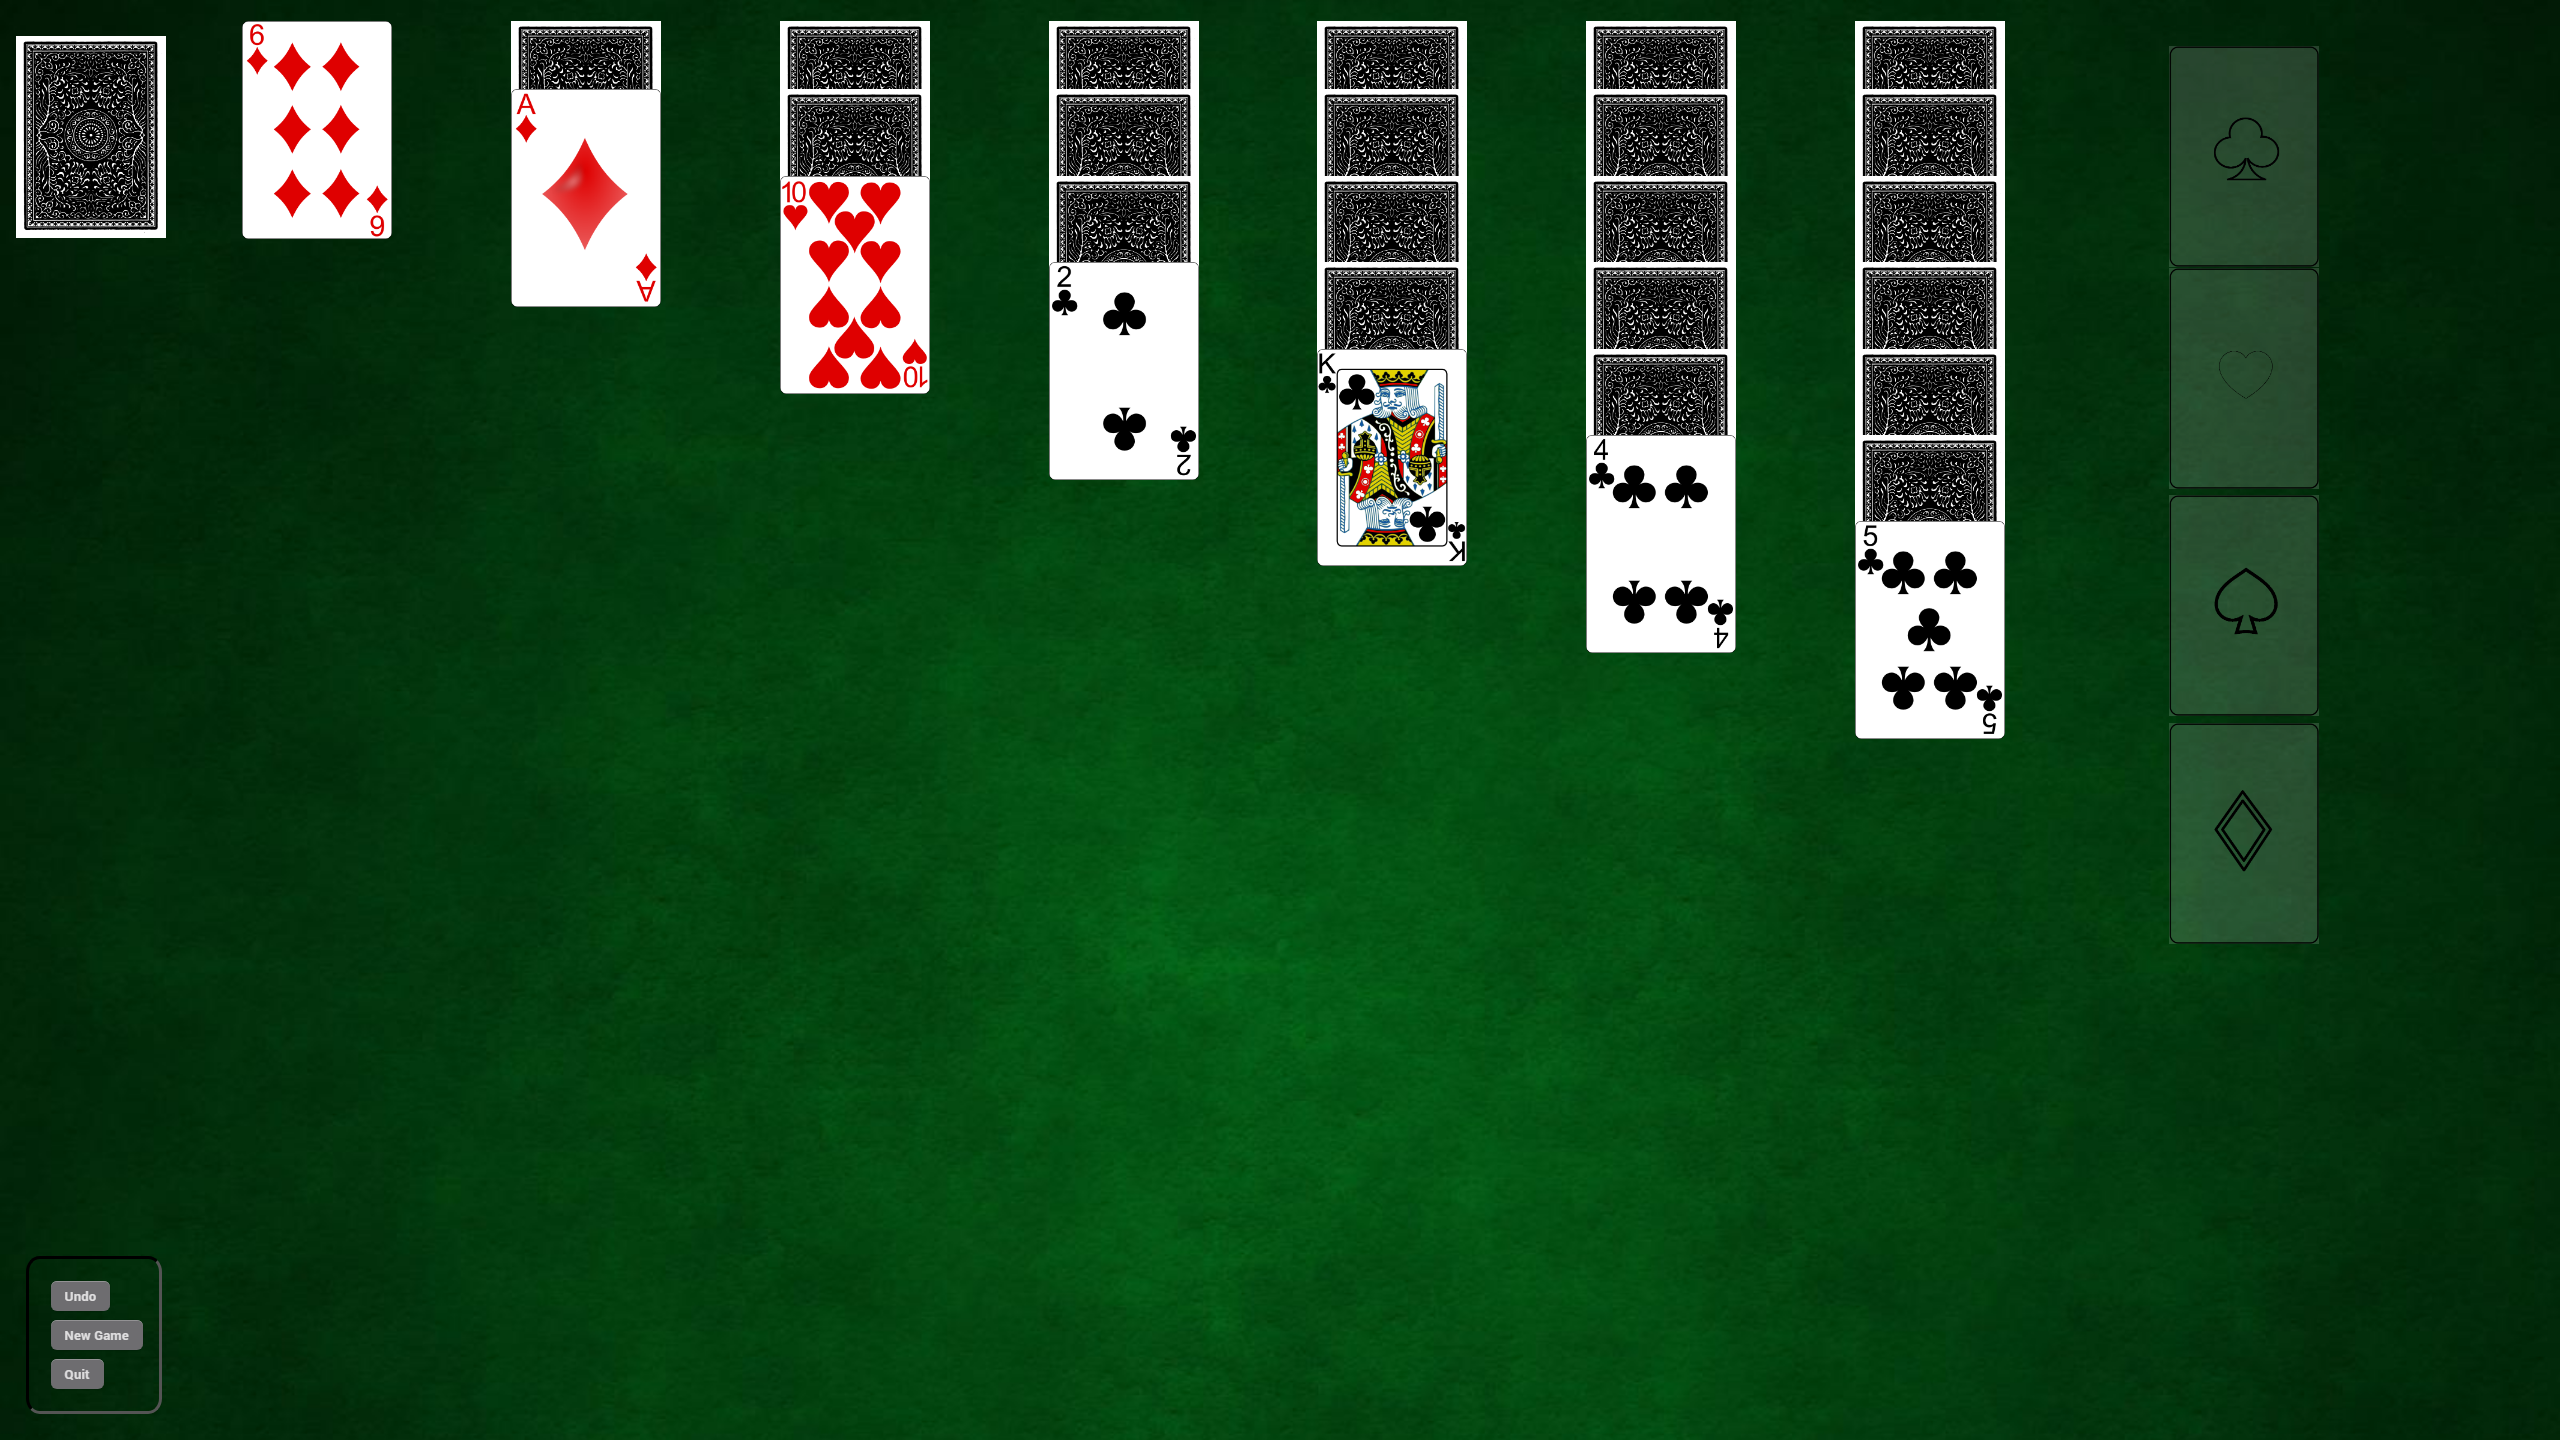
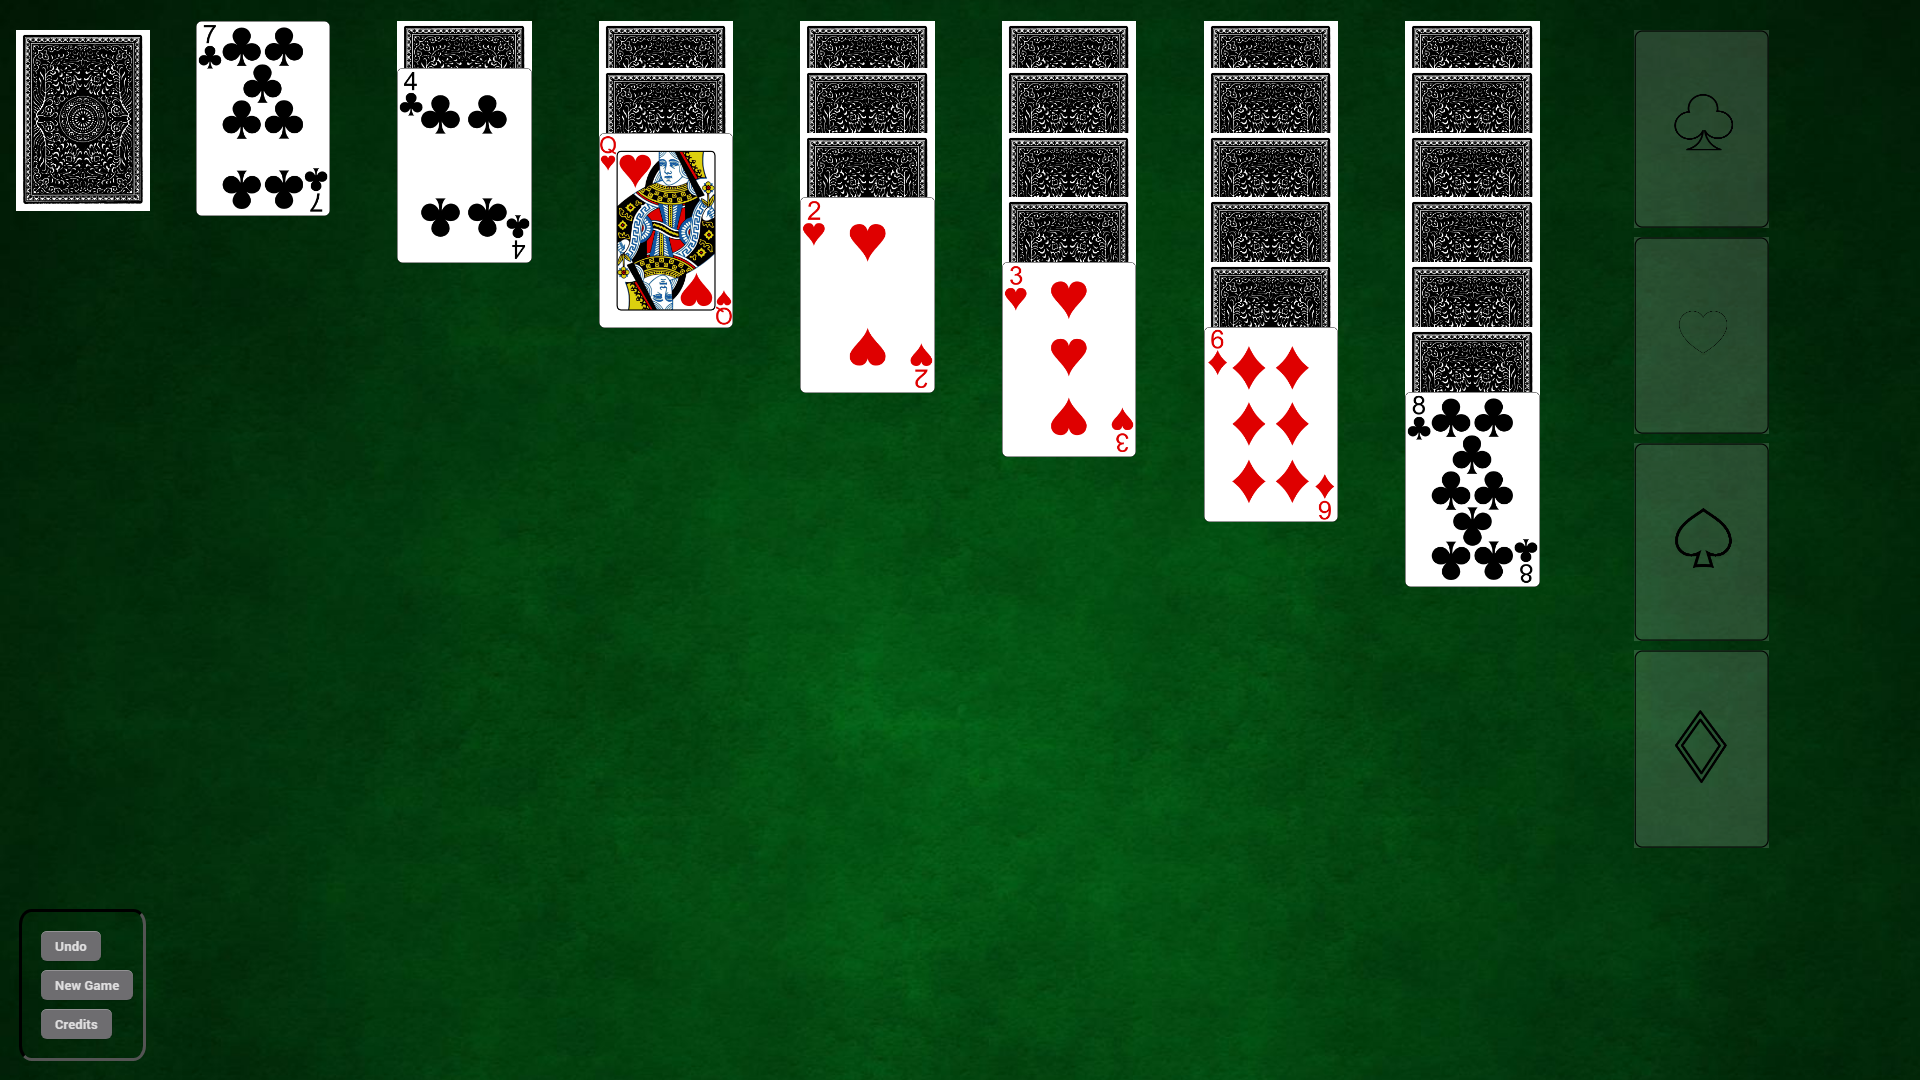
Revised Adaptive Webpage

Changed region(s): [[0.0, 0.0, 0.8125, 0.55], [0.8438, 0.0306, 0.9375, 0.7944], [0.0, 0.8556, 0.0938, 0.9778]]

diff --git a/main.js b/main.js
@@ -678,17 +678,13 @@ function dealCardColumnPiles() {
 }
 
 function createFoundation() {
-  //foundation.clubs
-  if (foundation.clubs.length != 0) {
-    var club = document.getElementsByClassName("clubs");
-    var clubspilebutton = document.createElement("button");
-    clubspilebutton.className += "clubscard";
-    var clubsimage = foundation.clubs[foundation.clubs.length - 1].image;
-    // var clubsimage = "images/card_background/cardBackground.png";
-    var clubsbuttonimage = document.createElement("img");
-    clubsbuttonimage.src = clubsimage;
-    clubspilebutton.appendChild(clubsbuttonimage);
-    club[0].appendChild(clubspilebutton);
+
+  if (foundation.clubs.length > 0) {
+    var club = document.getElementsByClassName("empty1")[0];
+    var clubspilebutton = document.getElementsByClassName("clubsbutton")[0];
+    var clubspileimage = foundation.clubs[foundation.clubs.length-1].image;
+    var empty1img = document.getElementsByClassName("empty1")[0]
+    empty1img.src = clubspileimage
 
     clubspilebutton.addEventListener(
       "click",
@@ -704,18 +700,13 @@ function createFoundation() {
       false
     );
   }
-
-  //foundation.hearts
-  if (foundation.hearts.length != 0) {
-    var heart = document.getElementsByClassName("hearts");
-    var heartspilebutton = document.createElement("button");
-    heartspilebutton.className += "heartscard";
-    var heartsimage = foundation.hearts[foundation.hearts.length - 1].image;
-    // var heartsimage = "images/card_background/cardBackground.png";
-    var heartsbuttonimage = document.createElement("img");
-    heartsbuttonimage.src = heartsimage;
-    heartspilebutton.appendChild(heartsbuttonimage);
-    heart[0].appendChild(heartspilebutton);
+  
+  if (foundation.hearts.length > 0) {
+    var heart = document.getElementsByClassName("empty2")[0];
+    var heartspilebutton = document.getElementsByClassName("heartsbutton")[0];
+    var heartspileimage = foundation.hearts[foundation.hearts.length-1].image;
+    var empty2img = document.getElementsByClassName("empty2")[0]
+    empty2img.src = heartspileimage
 
     heartspilebutton.addEventListener(
       "click",
@@ -725,24 +716,19 @@ function createFoundation() {
           heart[0].textContent = "";
           // createFoundation();
           updatePiles();
-          // console.log(foundation.hearts);
+          // console.log(foundation.clubs);
         }
       },
       false
     );
   }
 
-  //foundation.spades
-  if (foundation.spades.length != 0) {
-    var spade = document.getElementsByClassName("spades");
-    var spadespilebutton = document.createElement("button");
-    spadespilebutton.className += "spadescard";
-    var spadesimage = foundation.spades[foundation.spades.length - 1].image;
-    // var spadesimage = "images/card_background/cardBackground.png";
-    var spadesbuttonimage = document.createElement("img");
-    spadesbuttonimage.src = spadesimage;
-    spadespilebutton.appendChild(spadesbuttonimage);
-    spade[0].appendChild(spadespilebutton);
+  if (foundation.spades.length > 0) {
+    var spade = document.getElementsByClassName("empty1")[0];
+    var spadespilebutton = document.getElementsByClassName("spadesbutton")[0];
+    var spadespileimage = foundation.spades[foundation.spades.length-1].image;
+    var empty3img = document.getElementsByClassName("empty3")[0]
+    empty3img.src = spadespileimage
 
     spadespilebutton.addEventListener(
       "click",
@@ -752,25 +738,19 @@ function createFoundation() {
           spade[0].textContent = "";
           // createFoundation();
           updatePiles();
-          // console.log(foundation.spades);
+          // console.log(foundation.clubs);
         }
       },
       false
     );
   }
 
-  //foundation.diamonds
-  if (foundation.diamonds.length != 0) {
-    var diamond = document.getElementsByClassName("diamonds");
-    var diamondspilebutton = document.createElement("button");
-    diamondspilebutton.className += "diamondscard";
-    var diamondsimage =
-      foundation.diamonds[foundation.diamonds.length - 1].image;
-    // var diamondsimage = "images/card_background/cardBackground.png";
-    var diamondsbuttonimage = document.createElement("img");
-    diamondsbuttonimage.src = diamondsimage;
-    diamondspilebutton.appendChild(diamondsbuttonimage);
-    diamond[0].appendChild(diamondspilebutton);
+  if (foundation.diamonds.length > 0) {
+    var diamond = document.getElementsByClassName("empty4")[0];
+    var diamondspilebutton = document.getElementsByClassName("diamondsbutton")[0];
+    var diamondspileimage = foundation.diamonds[foundation.diamonds.length-1].image;
+    var empty4img = document.getElementsByClassName("empty4")[0]
+    empty4img.src = diamondspileimage
 
     diamondspilebutton.addEventListener(
       "click",
@@ -780,7 +760,7 @@ function createFoundation() {
           diamond[0].textContent = "";
           // createFoundation();
           updatePiles();
-          // console.log(foundation.diamonds);
+          // console.log(foundation.clubs);
         }
       },
       false

diff --git a/style.css b/style.css
@@ -3,10 +3,8 @@ body {
   width: 98%;
   background-image: url("images/backgrounds/standard_background.jpg");
   background-size: cover;
-  max-width: 100%;
+  /* max-width: 100%; */
   /* min-width: 98%; */
-}
-.wrapper {
 }
 
 button {
@@ -14,6 +12,9 @@ button {
   border-color: transparent;
 }
 .options {
+  /* padding: 1vw; */
+  /* width: fit-content; */
+  /* height: auto; */
   padding: .5%;
   padding-right: 1%;
   border-radius: 10%;
@@ -26,6 +27,7 @@ button {
   left: 0;
   /* width: 100%; */
 }
+
 .undo,
 .newgame,
 .credits {
@@ -49,16 +51,17 @@ button {
 }
 button > img {
   /* height: 200px; */
-  max-width: 150px;
-  min-width: 10px;
+  max-width: 7vw;
+  /* min-width: 5vw; */
   width: 100%;
   height: auto;
 }
 .stockwaste {
   float: left;
+  /* width: 100%; */
   margin: auto;
   margin-top: 1%;
-  margin-right: 2%;
+  margin-right: 1vw;
 }
 .playarea {
   float: left;
@@ -69,6 +72,7 @@ button > img {
 .playarea > div {
   flex-basis: 20%;
   padding: 10px;
+
 }
 .foundation {
   float: left;
@@ -76,22 +80,21 @@ button > img {
   margin-top: 1%;
   margin-left: 2%;
 }
+
+
 .empty1,
 .empty2,
 .empty3,
 .empty4 {
-  max-width: 150px;
-  min-width: 10px;
+  max-width: 7vw;
   width: 100%;
-  position: absolute;
-  margin: 0.5%;
-  max-width: 150px;
-  min-width: 10px;
+  position: relative;
+  /* margin: 0.5%; */
   width: 100%;
   z-index: 0;
   background-color: rgba(256, 256, 256, 0.15);
 }
-.empty2 {
+/* .empty2 {
   top: 255px;
 }
 .empty3 {
@@ -99,14 +102,14 @@ button > img {
 }
 .empty4 {
   top: 710px;
-}
+} */
 .clubscard {
   position: absolute;
   max-width: 190px;
   min-width: 10px;
   width: 100%;
   z-index: 1;
-  top: 43px;
+  top: 2.75%;
 }
 .heartscard {
   position: absolute;

diff --git a/main.html b/main.html
@@ -53,29 +53,30 @@
       </div>
 
       <div class="foundation">
-        <img
+        <button class="clubsbutton" type="button"><img
           class="empty1"
           src="images/card_background/clubsBlank.png"
           alt="cardBlank"
-        />
+        /></button>
+
         <div class="clubs"></div>
-        <img
+        <button class="heartsbutton" type="button"><img
           class="empty2"
           src="images/card_background/heartsBlank.png"
           alt="cardBlank"
-        />
+        /></button>
         <div class="hearts"></div>
-        <img
+        <button class="spadesbutton" type="button"><img
           class="empty3"
           src="images/card_background/spadesBlank.png"
           alt="cardBlank"
-        />
+        /></button>
         <div class="spades"></div>
-        <img
+        <button class="diamondsbutton" type="button"><img
           class="empty4"
           src="images/card_background/diamondsBlank.png"
           alt="cardBlank"
-        />
+        /></button>
         <div class="diamonds"></div>
       </div>
     </div>
